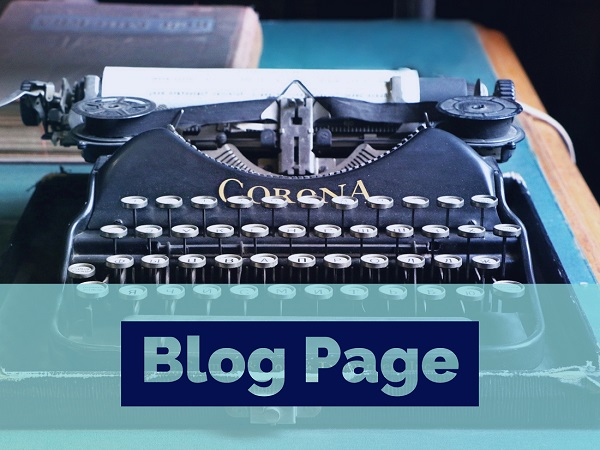
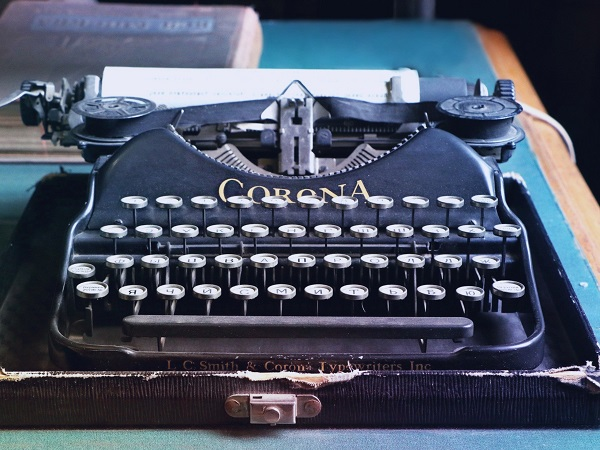
Add hover effect, responsive tweaks for verse of day, blog, what's new pictures

diff --git a/src/views/Home.vue b/src/views/Home.vue
@@ -8,28 +8,90 @@
       :show-arrows="false"
       cycle
     >
-      <v-carousel-item
-        v-for="slide in slideShow"
-        :key="slide.src"
-        eager
-      >
-        <v-img :src="`https://raw.githubusercontent.com/charismental/images/main/${slide.src}`" height="100%" eager/>
+      <v-carousel-item v-for="slide in slideShow" :key="slide.src" eager>
+        <v-img
+          :src="`https://raw.githubusercontent.com/charismental/images/main/${slide.src}`"
+          height="100%"
+          eager
+        />
       </v-carousel-item>
     </v-carousel>
     <v-row>
       <v-col cols="12" md="4">
         <v-card>
-          <v-img src="~@/assets/blog.jpg"></v-img>
+          <v-hover v-slot:default="{ hover }">
+            <v-img src="~@/assets/blog.jpg">
+              <v-expand-transition>
+                <div
+                  class="d-flex transition-fast-in-fast-out cyan lighten-2 v-card--reveal"
+                  :style="hover || $vuetify.breakpoint.smAndDown ? 'height: 38%' : 'height: 5%'"
+                >
+                  <div
+                    v-if="hover || $vuetify.breakpoint.smAndDown"
+                    class="hover-text rounded transition-fast-in-fast-out"
+                    style="background-color: #0d47a1"
+                    :style="$vuetify.breakpoint.smAndDown ? 'font-size: 10vw' : ''"
+                  >
+                    Blog Page
+                  </div>
+                </div>
+              </v-expand-transition></v-img
+            >
+          </v-hover>
         </v-card>
       </v-col>
       <v-col cols="12" md="4">
         <v-card>
-          <v-img src="~@/assets/verse.jpg"></v-img>
+          <v-hover v-slot:default="{ hover }">
+            <v-img src="~@/assets/verse.jpg">
+              <v-expand-transition>
+                <div
+                  class="d-flex transition-fast-in-fast-out cyan lighten-2 v-card--reveal"
+                  :style="hover || $vuetify.breakpoint.smAndDown ? 'height: 38%' : 'height: 5%'"
+                >
+                  <div
+                    v-if="hover || $vuetify.breakpoint.smAndDown"
+                    class="hover-text transition-fast-in-fast-out"
+                    style="background-color: #0d47a1"
+                    :style="$vuetify.breakpoint.smAndDown ? 'font-size: 10vw' : ''"
+                  >
+                    <span
+                      v-if="
+                        $vuetify.breakpoint.lgAndUp ||
+                        $vuetify.breakpoint.smOnly
+                      "
+                    >
+                      Verse of the Day
+                    </span>
+                    <span v-else>Today's Verse</span>
+                  </div>
+                </div>
+              </v-expand-transition></v-img
+            >
+          </v-hover>
         </v-card>
       </v-col>
       <v-col cols="12" md="4">
         <v-card>
-          <v-img src="~@/assets/news.jpg"></v-img>
+          <v-hover v-slot:default="{ hover }">
+            <v-img src="~@/assets/news.jpg">
+              <v-expand-transition>
+                <div
+                  class="d-flex transition-fast-in-fast-out cyan lighten-2 v-card--reveal"
+                  :style="hover || $vuetify.breakpoint.smAndDown ? 'height: 38%' : 'height: 5%'"
+                >
+                  <div
+                    v-if="hover || $vuetify.breakpoint.smAndDown"
+                    class="hover-text transition-fast-in-fast-out"
+                    style="background-color: #0d47a1"
+                    :style="$vuetify.breakpoint.smAndDown ? 'font-size: 10vw' : ''"
+                  >
+                    What's New
+                  </div>
+                </div>
+              </v-expand-transition></v-img
+            >
+          </v-hover>
         </v-card>
       </v-col>
     </v-row>
@@ -130,3 +192,20 @@ export default {
   }),
 };
 </script>
+
+<style>
+.hover-text {
+  font-size: 3.5vw;
+  font-weight: 900;
+  color: white;
+  padding: 0.1em 0.5em 0.2em;
+}
+.v-card--reveal {
+  align-items: center;
+  bottom: 0;
+  justify-content: center;
+  opacity: 0.5;
+  position: absolute;
+  width: 100%;
+}
+</style>
